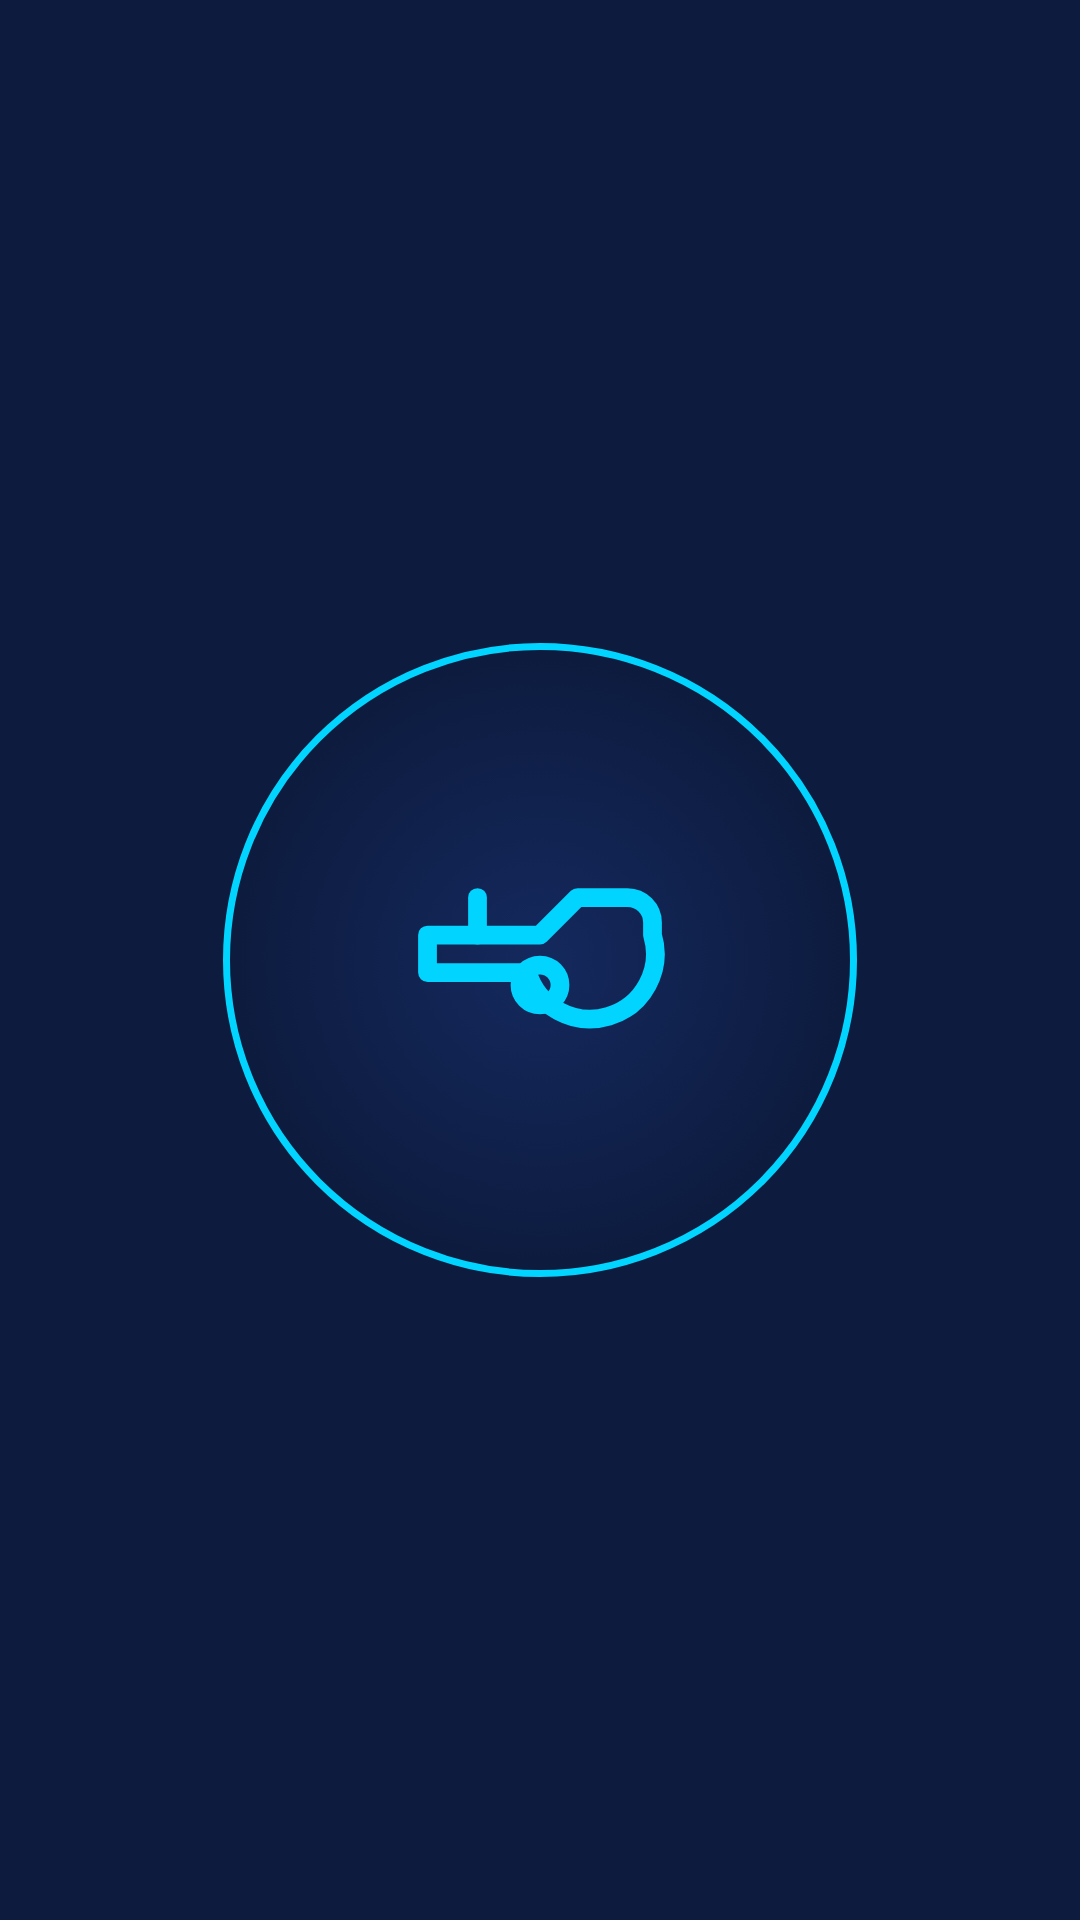
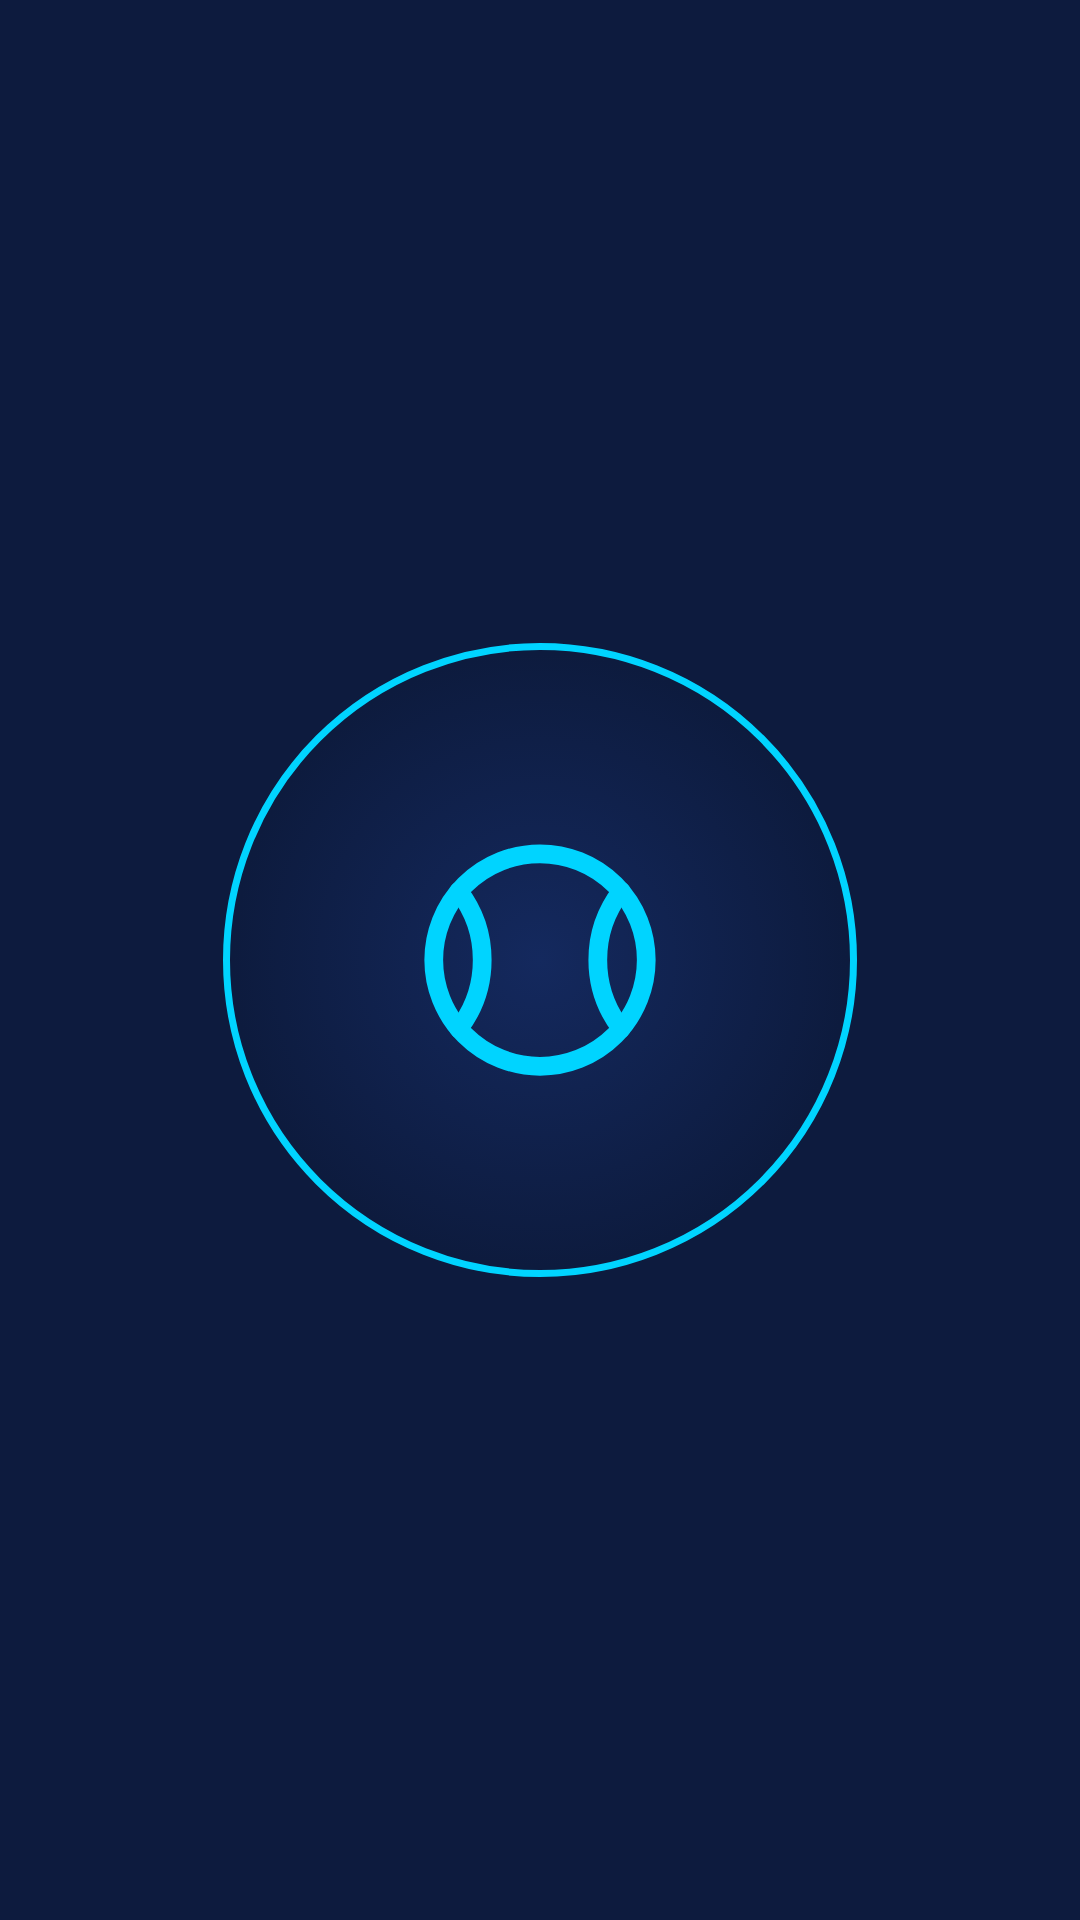
Highlight Jan Stilten: padelbal
Claude-Session: https://claude.ai/code/session_01QkSWZzWLTduRQtPp2zathG

Changed region(s): [[0.3667, 0.4375, 0.6111, 0.5625]]

diff --git a/instagram/highlights/build.js b/instagram/highlights/build.js
@@ -1,7 +1,7 @@
 // Highlight-covers in dezelfde stijl als Gratis analyse / Resultaat / Over mij (navy, blauw lijnicoon)
 const { chromium } = require('/opt/node22/lib/node_modules/playwright');
 const ic = {
- janstilten: '<path d="M3 10h9l3-3h4a2 2 0 0 1 2 2v1a5 5 0 1 1-10 3H3z"/><circle cx="12" cy="14" r="1.6"/><path d="M7 10V7"/>',
+ janstilten: '<circle cx="12" cy="12" r="8.5"/><path d="M5.5 6.5a9 9 0 0 1 0 11"/><path d="M18.5 6.5a9 9 0 0 0 0 11"/>',
  kickstart: '<path d="M12 2c3 2 5 6 5 10l-2 4H9l-2-4c0-4 2-8 5-10z"/><circle cx="12" cy="9" r="1.8"/><path d="M7 12l-3 3 3 1M17 12l3 3-3 1M10 19l2 3 2-3"/>',
  flaxx: '<ellipse cx="14" cy="9" rx="6" ry="6.5" transform="rotate(35 14 9)"/><path d="M9.6 13.6L4 20.5"/><circle cx="12.5" cy="7.5" r=".6"/><circle cx="15.5" cy="8.5" r=".6"/><circle cx="13.5" cy="10.8" r=".6"/>'
 };
